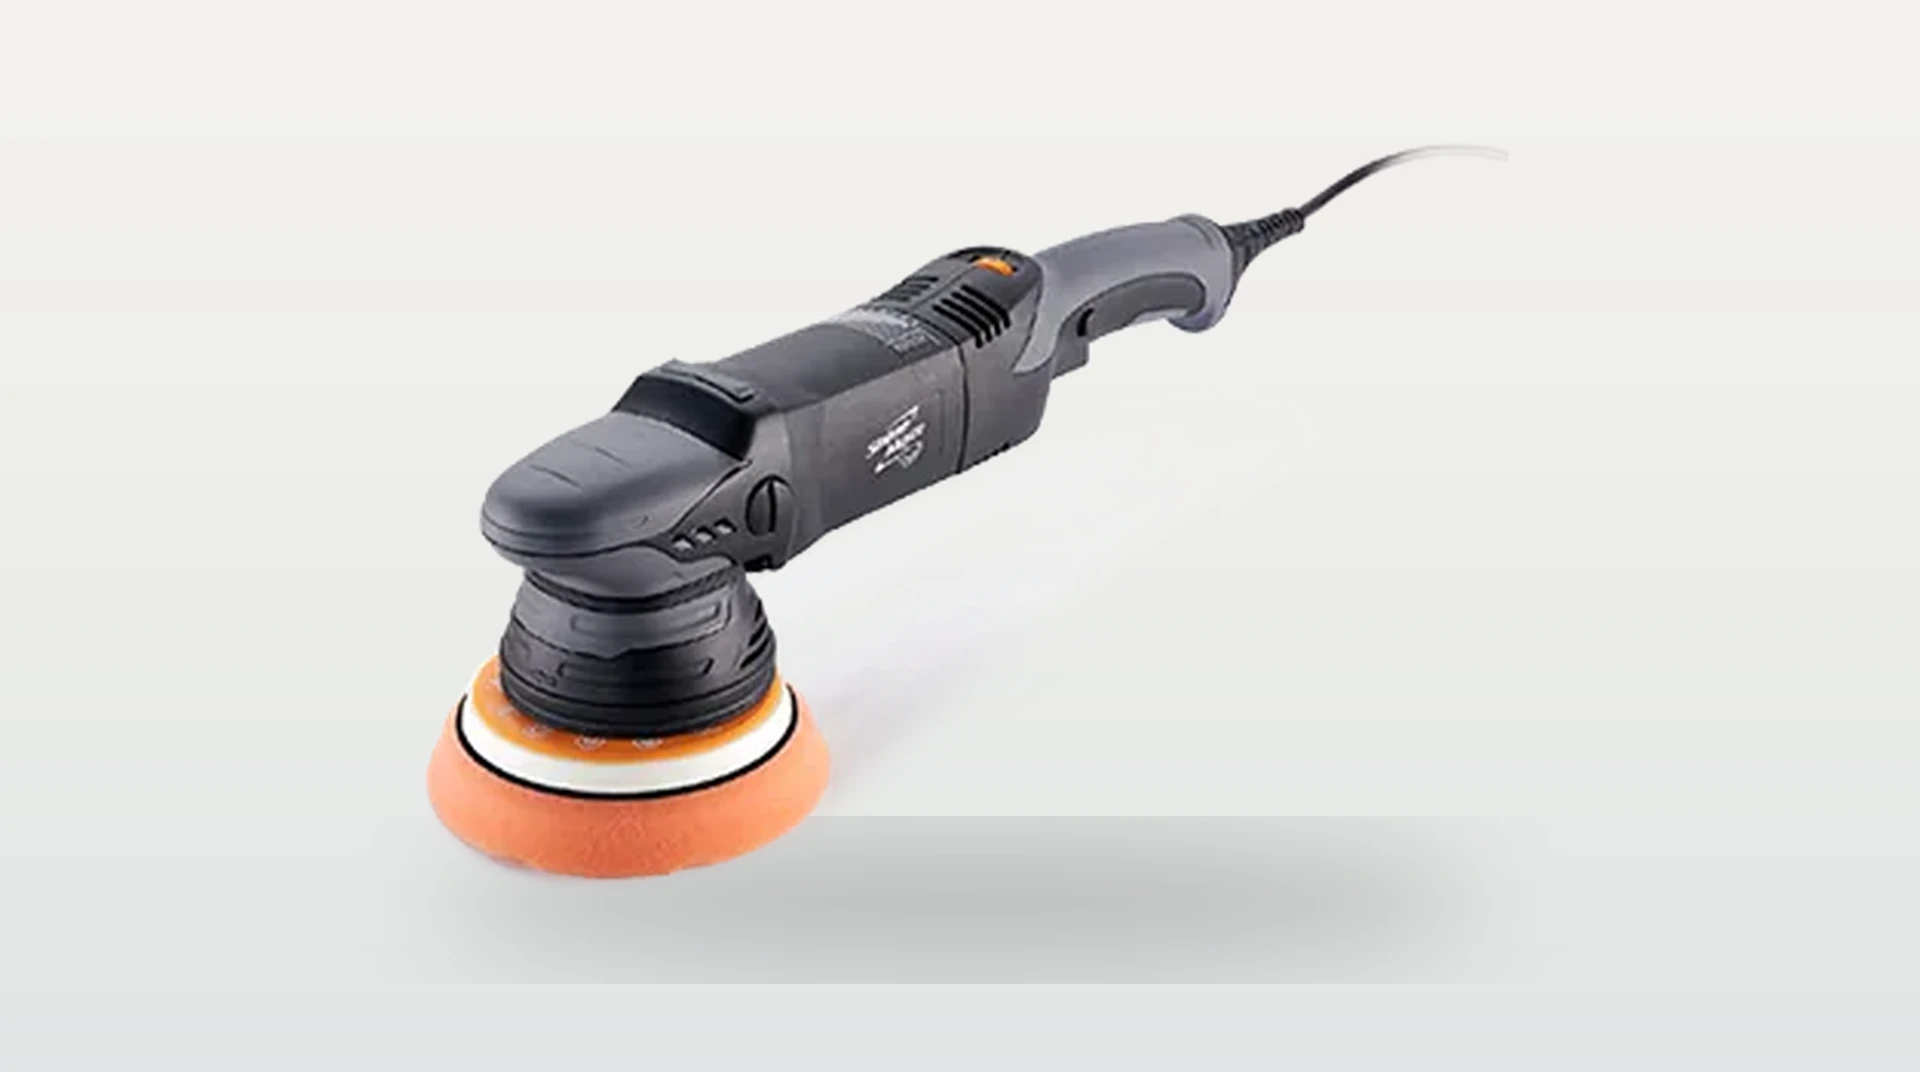
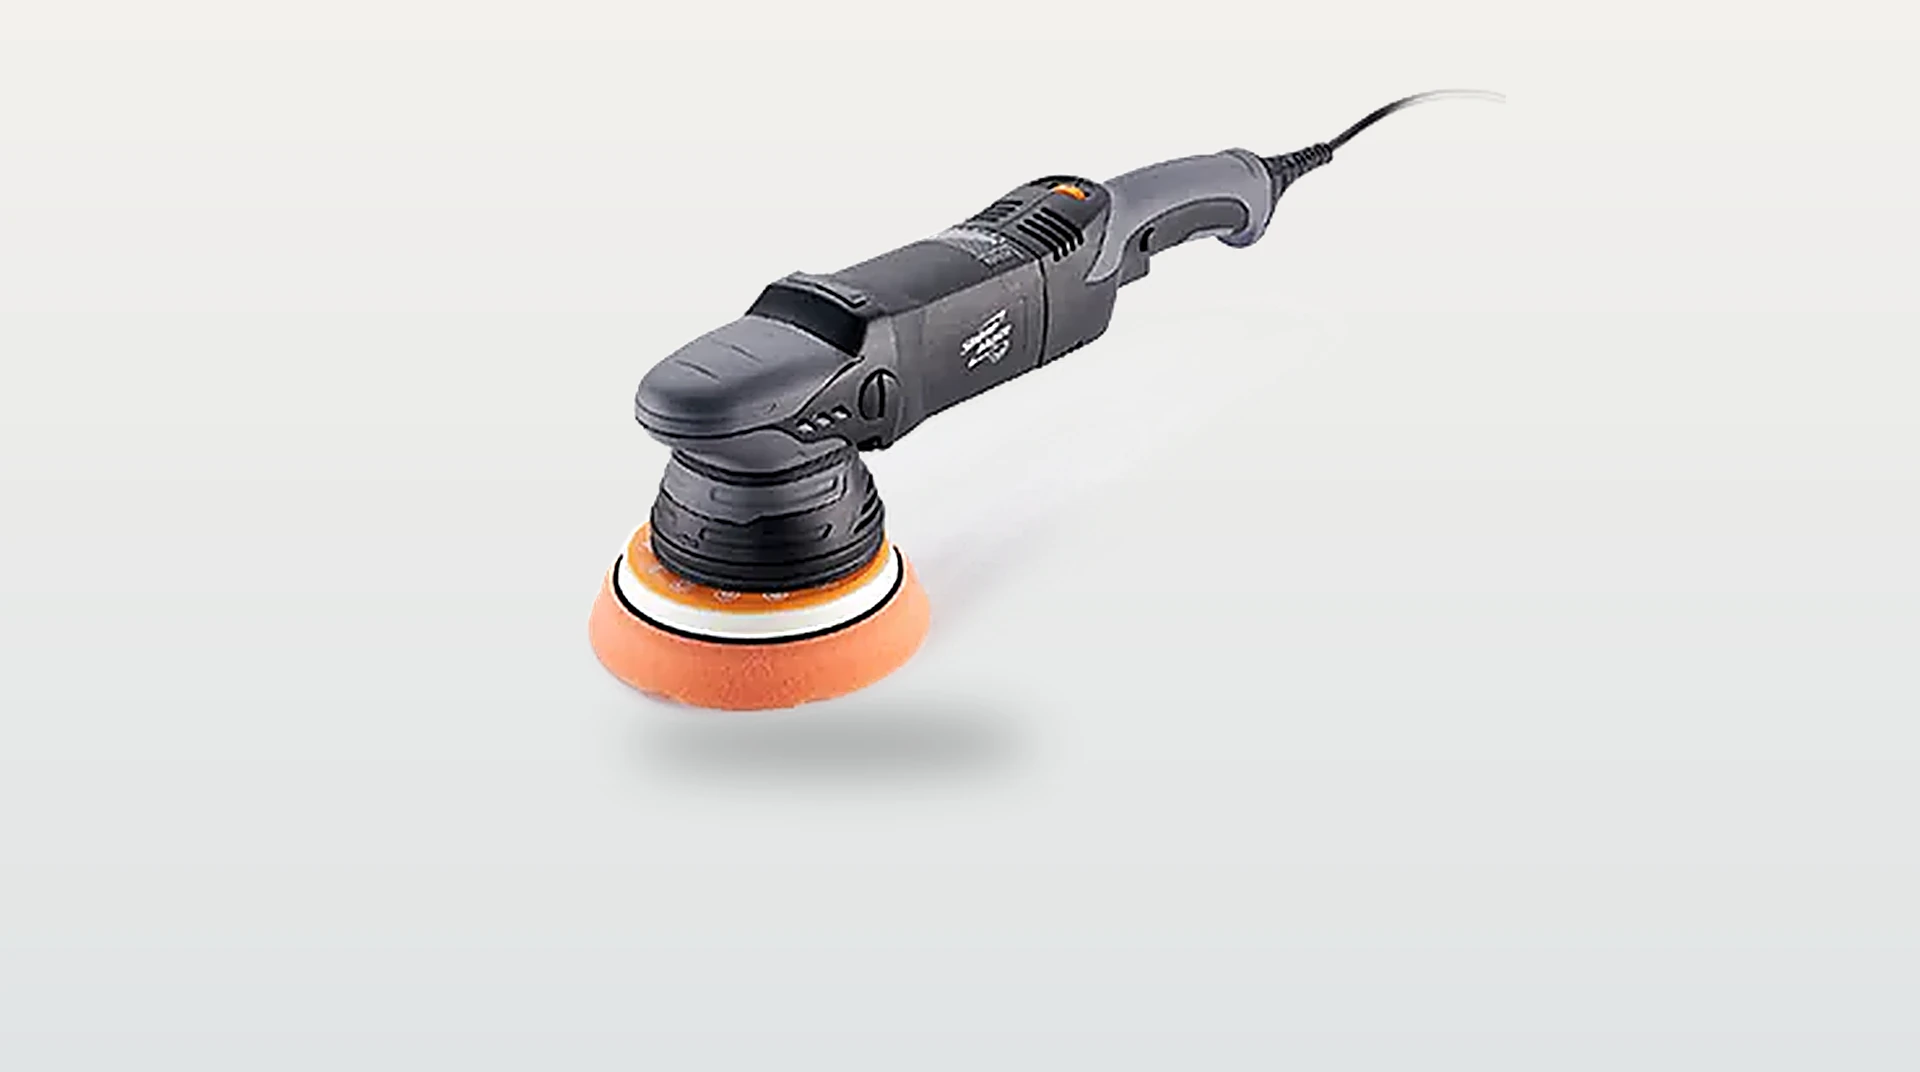
Пересобрать фото EX620 в хиро-слайдере, починить контраст стрелок и десинхрон карусели
Исходник EX620 у вендора — всего 358×248, апскейл давал заметную
мутность на весь экран. Пересобрал с Lanczos + unsharp mask — заметно
резче при том же кадрировании.

Стрелки/счётчик карусели были полупрозрачными на почти таком же светлом
фоне — практически не видны. Сделали непрозрачный фон + тень.

Автопрокрутка больше не тикает, пока вкладка свёрнута в фон (rAF там не
идёт) — раньше это могло рассинхронизировать фото и подпись слайда.

Changed region(s): [[0.2188, 0.0924, 0.75, 0.8927]]

diff --git a/src/components/scenes/Hero.tsx b/src/components/scenes/Hero.tsx
@@ -72,6 +72,11 @@ export function Hero() {
   useEffect(() => {
     if (reduced || paused) return
     const id = window.setInterval(() => {
+      // Вкладка, свёрнутая в фон, не выполняет rAF — таймер продолжает
+      // тикать, а CSS-переход нет. Без этой проверки за время в фоне могло
+      // накопиться несколько смен слайда разом, и по возвращении на вкладку
+      // фото и текст оказывались от разных слайдов (десинхрон).
+      if (document.hidden) return
       setIndex((i) => (i + 1) % SLIDES.length)
     }, AUTOPLAY_MS)
     return () => window.clearInterval(id)
@@ -119,7 +124,7 @@ export function Hero() {
           style={reduced ? undefined : { y: mediaY, scale: mediaScale }}
           className="absolute inset-0 origin-center lg:left-auto lg:w-[56%]"
         >
-          <AnimatePresence initial={false}>
+          <AnimatePresence initial={false} mode="wait">
             <motion.img
               key={slide.slug}
               src={`media/${slide.slug}-1920.webp`}
@@ -156,18 +161,18 @@ export function Hero() {
             type="button"
             onClick={() => go(-1)}
             aria-label="Предыдущий слайд"
-            className="flex h-9 w-9 items-center justify-center rounded-full border border-graphite/15 bg-porcelain/70 text-graphite/60 backdrop-blur-sm transition-colors duration-400 ease-premium hover:border-graphite/40 hover:text-graphite"
+            className="flex h-9 w-9 items-center justify-center rounded-full border border-graphite/20 bg-porcelain text-graphite shadow-[0_4px_16px_rgba(26,28,30,0.14)] backdrop-blur-sm transition-colors duration-400 ease-premium hover:border-graphite/40 hover:bg-ink hover:text-porcelain"
           >
             <ChevronLeft size={15} />
           </button>
-          <span className="font-mono text-[0.6875rem] tabular-nums tracking-[0.1em] text-graphite/50">
+          <span className="rounded-full bg-porcelain px-2.5 py-1 font-mono text-[0.6875rem] tabular-nums tracking-[0.1em] text-graphite shadow-[0_4px_16px_rgba(26,28,30,0.14)]">
             {String(index + 1).padStart(2, '0')} / {String(SLIDES.length).padStart(2, '0')}
           </span>
           <button
             type="button"
             onClick={() => go(1)}
             aria-label="Следующий слайд"
-            className="flex h-9 w-9 items-center justify-center rounded-full border border-graphite/15 bg-porcelain/70 text-graphite/60 backdrop-blur-sm transition-colors duration-400 ease-premium hover:border-graphite/40 hover:text-graphite"
+            className="flex h-9 w-9 items-center justify-center rounded-full border border-graphite/20 bg-porcelain text-graphite shadow-[0_4px_16px_rgba(26,28,30,0.14)] backdrop-blur-sm transition-colors duration-400 ease-premium hover:border-graphite/40 hover:bg-ink hover:text-porcelain"
           >
             <ChevronRight size={15} />
           </button>
